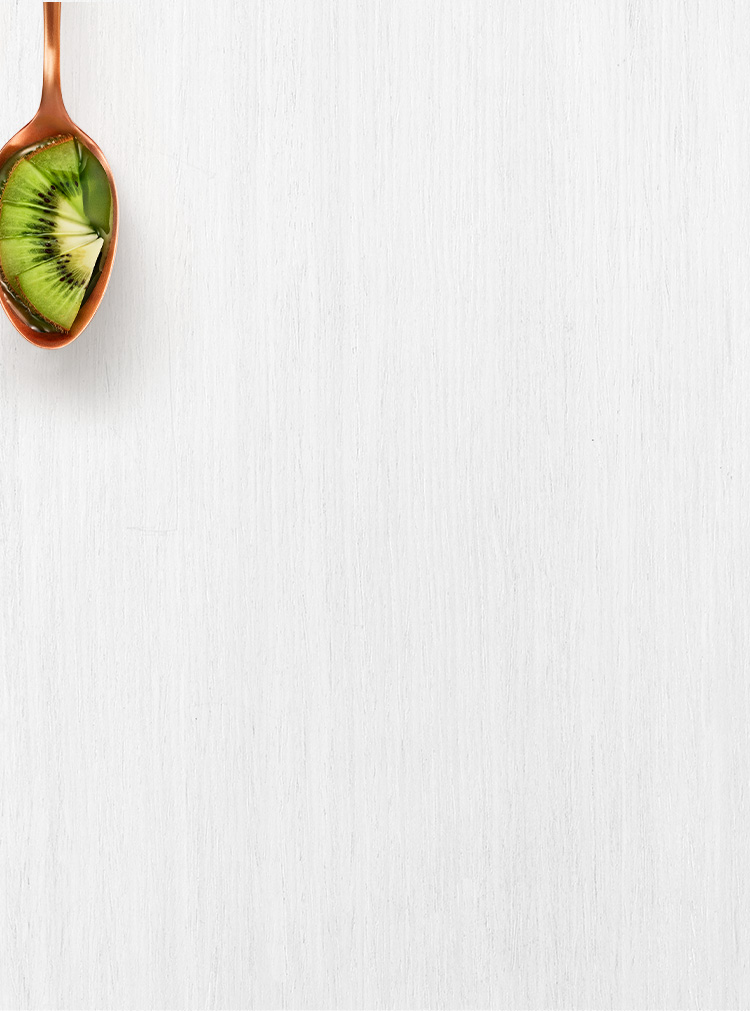
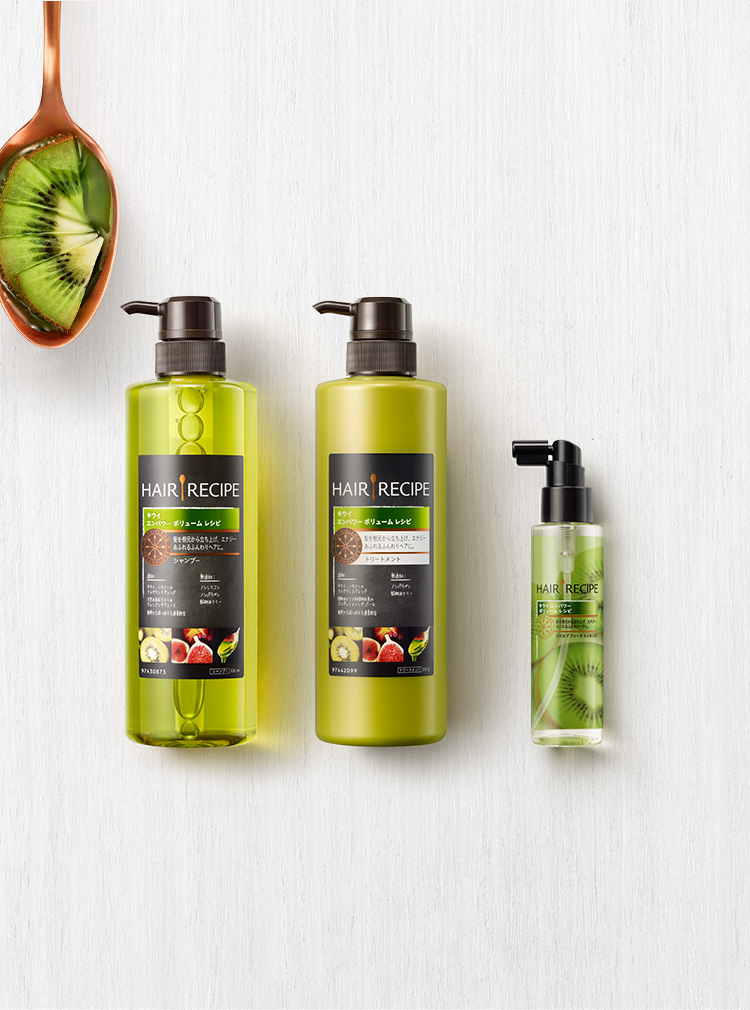
UAT fixed background cm mobile version

Changed region(s): [[0.1533, 0.2762, 0.8587, 0.798], [0.0, 0.1228, 0.1533, 0.3376], [0.0, 0.2762, 0.0613, 0.3376]]

diff --git a/hairrecipe/hairrecipe/Content/sp-css/mobile-cm.css b/hairrecipe/hairrecipe/Content/sp-css/mobile-cm.css
@@ -95,7 +95,7 @@ ul {
 
 .cm-lineup-one, .cm-lineup-two, .cm-lineup-three, .cm-lineup-four {
     position:relative;
-    padding: 0 10% 10% 10%;
+    padding: 0 10% 9% 10%;
 
 }
 
@@ -115,7 +115,8 @@ ul {
 }
 
 .cm-lineup-one  div.inner, .cm-lineup-three  div.inner, .cm-lineup-four div.inner {
-    padding-top:120px;
+    padding-top:35%;
+    padding-bottom: 75%;
 }
 
 .cm-lineup-five div.inner {
@@ -123,7 +124,8 @@ ul {
 }
 
 .cm-lineup-two div.inner {
-    padding-top:50px;
+    padding-top: 5%;
+    padding-bottom: 90%;
 }
 
 .cm-lineup-one .inner h2, .cm-lineup-two h2, .cm-lineup-three h2, .cm-lineup-four h2 {
@@ -138,7 +140,11 @@ ul {
     line-height:30px;
 }
 
-.inner a.btn.to-read-btn {
+.cm-lineup-one a.btn.to-read-btn {
+    margin-top:15%;
+}
+
+a.btn.to-read-btn {
     width: 70%;
 }
 
@@ -171,6 +177,31 @@ ul {
 
    .cm-lineup-one .inner h2, .cm-lineup-two h2, .cm-lineup-three h2, .cm-lineup-four h2 {
        font-size: 1.2em;
+   }
+
+   .cm-lineup-one, .cm-lineup-two, .cm-lineup-three, .cm-lineup-four{
+       padding: 0 10% 2% 10%;
+   }
+
+   div.inner a.btn.to-read-btn {
+       padding-bottom:20px;
+   }
+
+   .cm-lineup-two div.inner {
+       padding-bottom: 80%;
+   }
+
+    a.btn.to-read-btn.gaca-btn {
+        margin-bottom: 10%;
+    }
+
+    .cm-lineup-three  a.btn.to-read-btn.gaca-btn  {
+        margin-top:10%;
+    }
+
+   .cm-lineup-one  div.inner, .cm-lineup-three  div.inner, .cm-lineup-four div.inner {
+       padding-top: 35%;
+       padding-bottom: 65%;
    }
 }
 
@@ -220,6 +251,10 @@ ul {
 
    .cm-lineup-four img {
        margin-top: 7px;
+   }
+
+   .cm-lineup-two {
+       padding: 0 10% 6% 10%;
    }
 }
 
